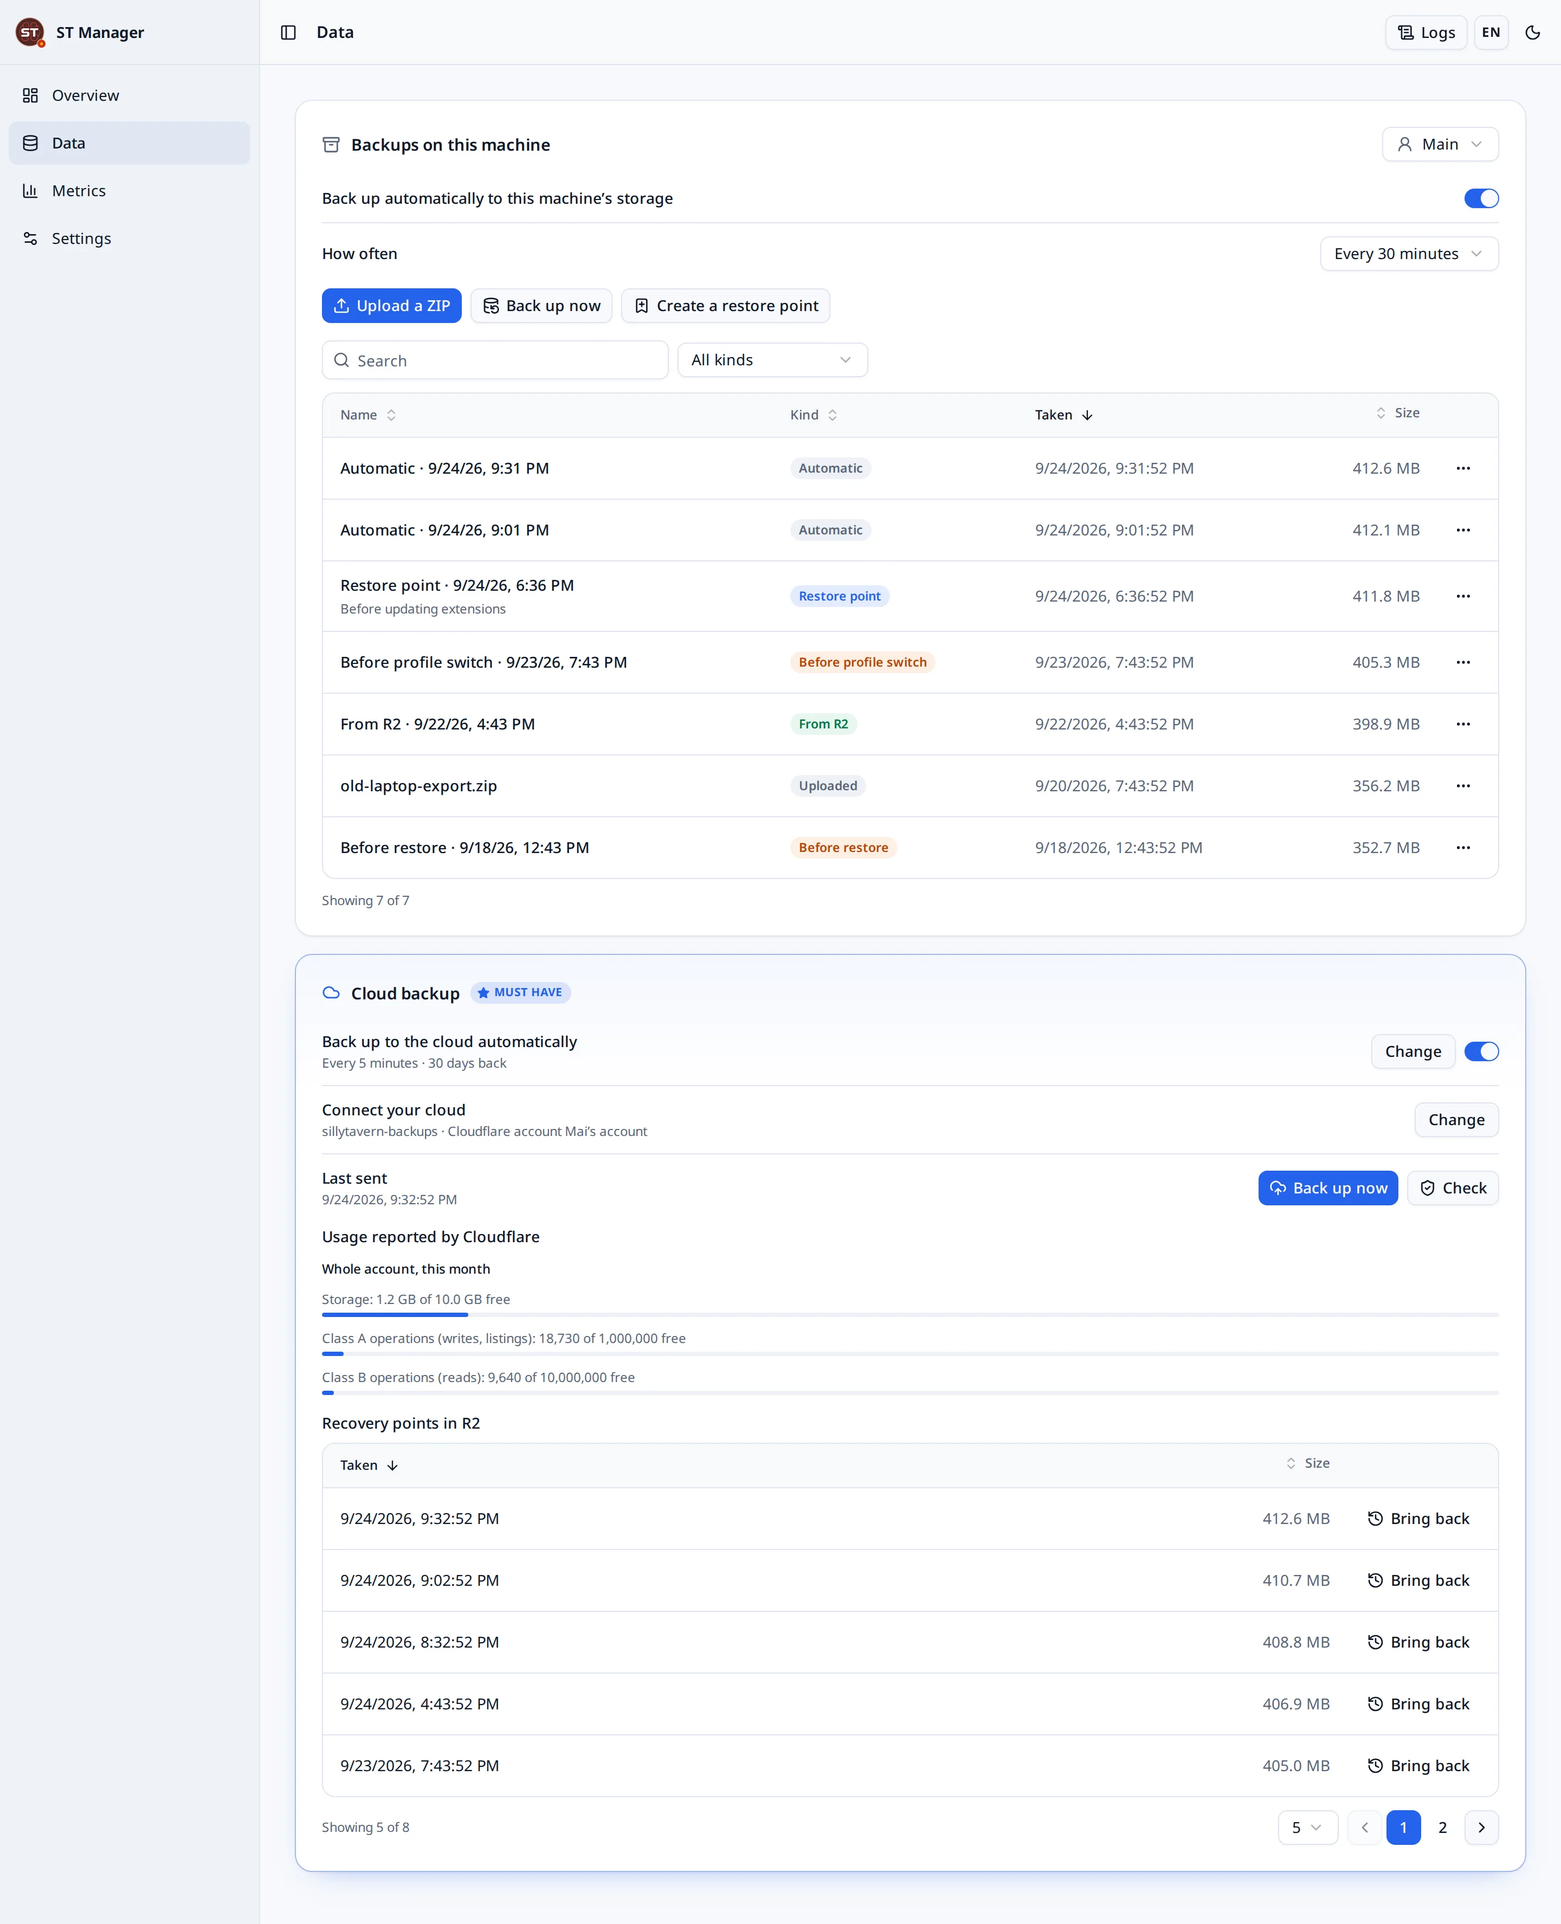
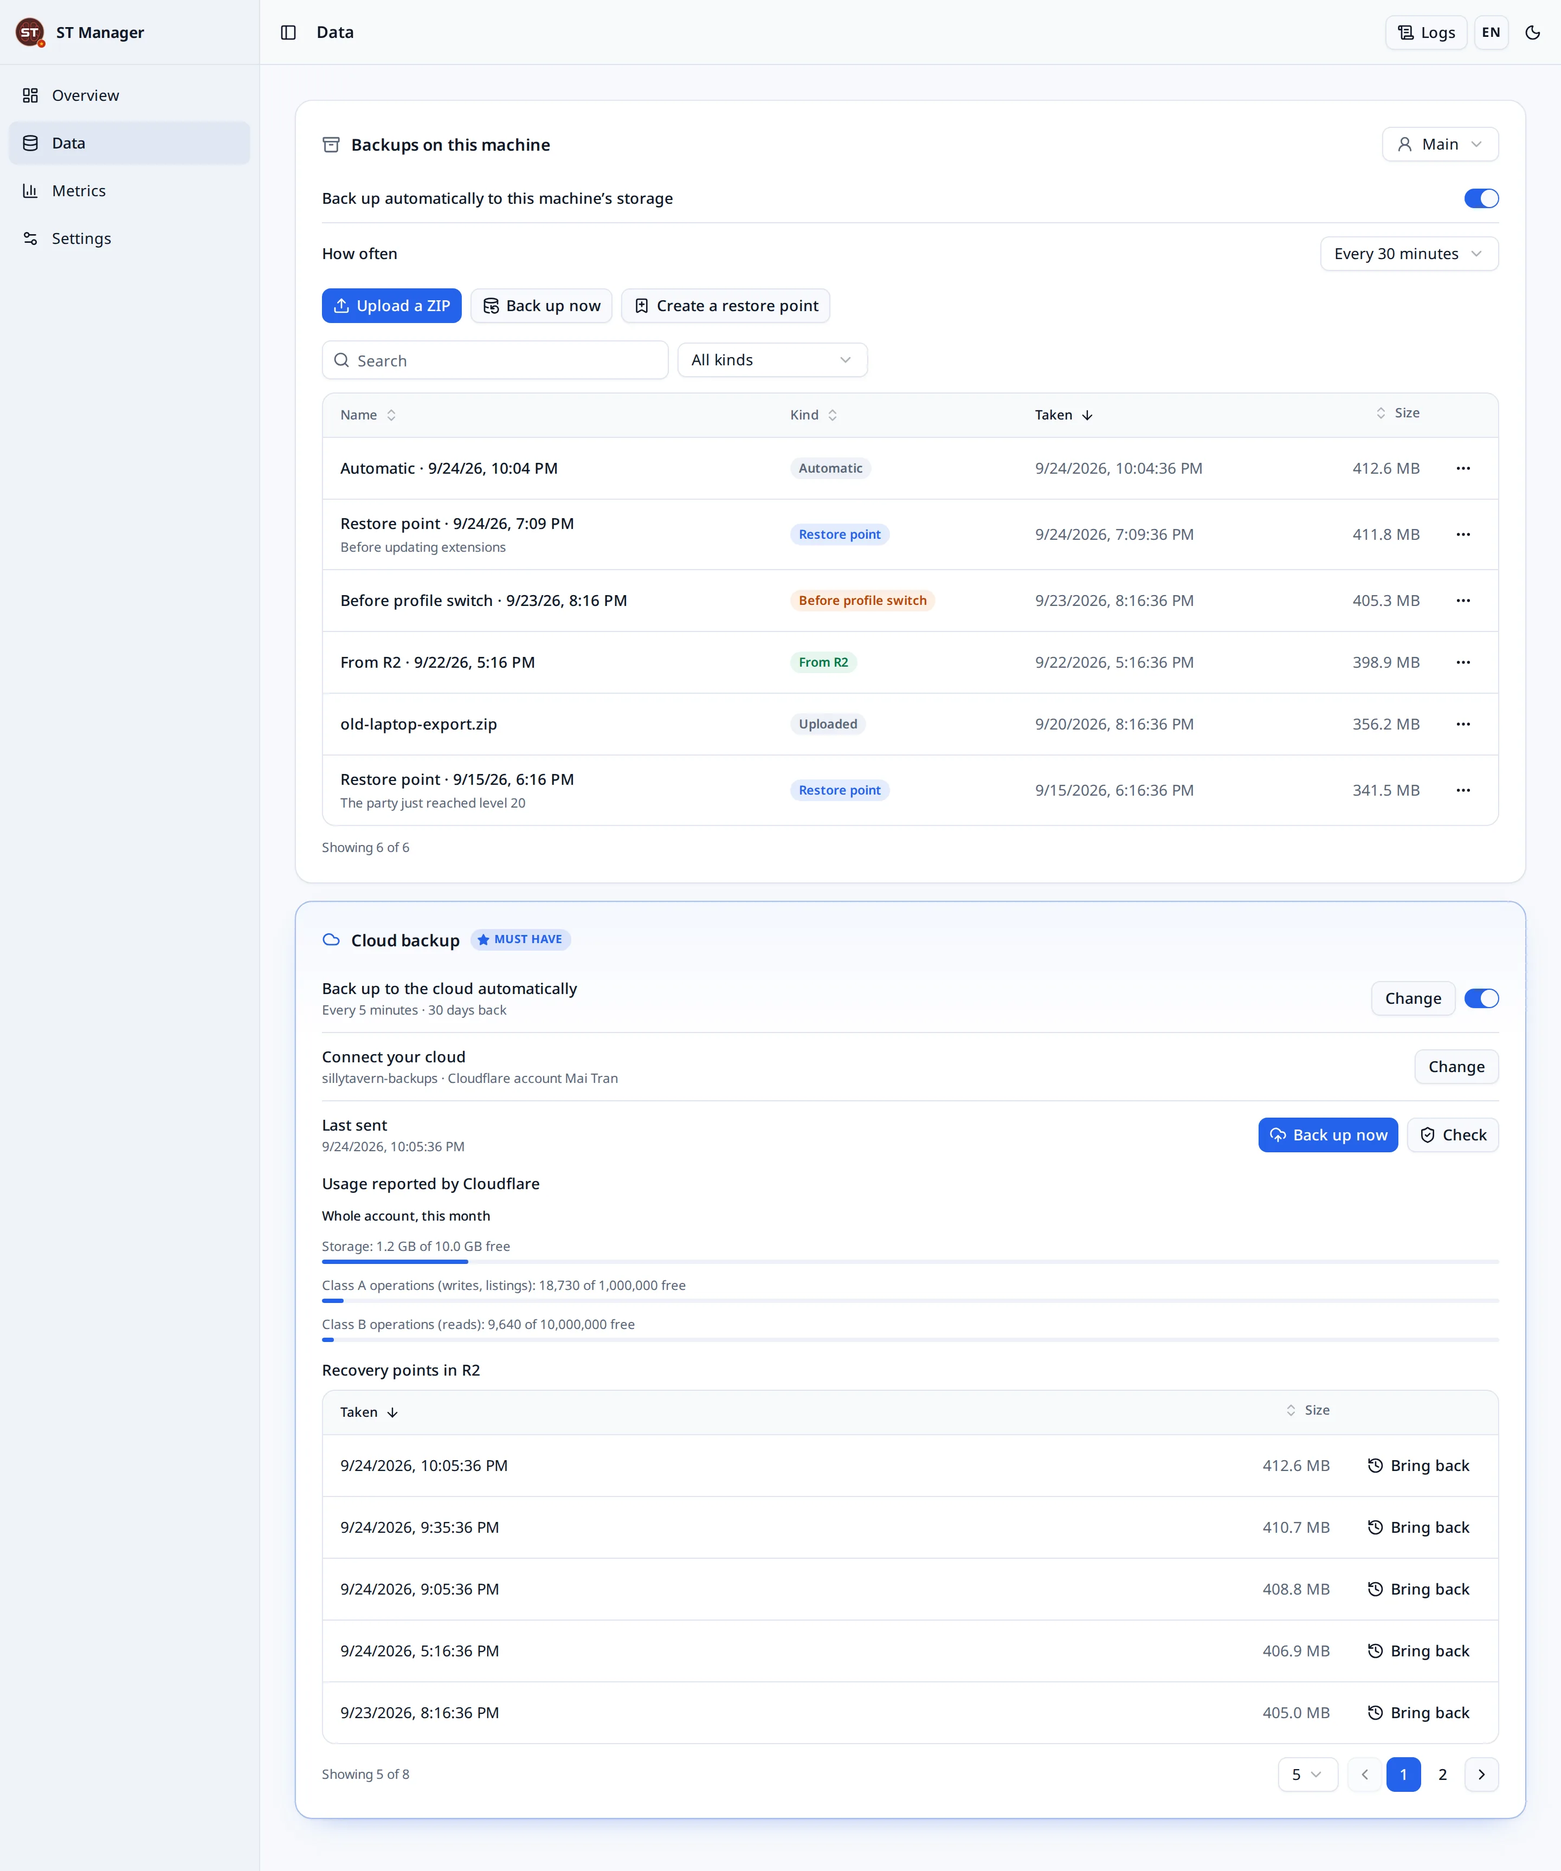
docs: saver mode, keeping the manager awake, and bringing a machine back
The README and the site's documentation said nothing about most of what
the manager learned in the last few weeks. Both now cover, in English and
Vietnamese:

- saver mode: what it keeps and where, when it turns itself on, how a
  restore is checked for room and written as it arrives, and STM_SAVER;
- Keep STM online: why a manager needs it, how often it checks and which
  address it holds;
- bringing a machine back: the settings the bucket keeps beside the data,
  what a sign-in on a new machine restores by itself, Restore everything,
  and one machine per account;
- restore points with a note, what each kind of archive is kept for, and
  the preview saying what a replace takes away;
- Use it here and Open with tools, Continue with Cloudflare, the setup
  checklist, and the choice between the fixed link and the tunnel's own;
- STM_PORT, STM_SAVER, STM_STORAGE_IN_MEMORY, STM_PUBLIC_ORIGIN and
  STM_TUNNEL_PROTOCOL in the configuration tables.

The site also gives the default SillyTavern port as 8002, which it has
been for a while, instead of 8000, and its home page has cards for the
three larger additions.

The data page screenshots are retaken with the backups the retention
rules actually leave: one automatic archive, one safety copy, and what
somebody made or brought on purpose.

Claude-Session: https://claude.ai/code/session_01NgPExXvPSjrbDeWTqPJPC2

diff --git a/README.md b/README.md
@@ -41,11 +41,15 @@ SillyTavern is a terminal, a Git checkout and a folder of data you must not lose
 | --- | --- |
 | **Install and update** | Pick a release or a branch and press **Install**. The manager clones it, installs dependencies, health-checks the build and reports **Ready** only once SillyTavern answers on its port. It tells you when a newer release is out. |
 | **Run and watch** | Start, stop and open SillyTavern from the panel, with live logs from the manager, SillyTavern, the installer, backups and the tunnel in one searchable feed. |
+| **Use it here** | Open SillyTavern inside the panel, with a window bar for backing up, reading the logs and going full screen — or in a tab of its own with the same tools. |
 | **Share safely** | SillyTavern itself stays on localhost. Other devices and Cloudflare Tunnel reach it through the manager's access gateway, which asks for a password first and never forwards the admin panel. |
 | **A link that keeps working** | Sign in to Cloudflare and the manager puts `sillytavern.<you>.workers.dev` and `stm.<you>.workers.dev` in front of the tunnels. A Quick Tunnel's own hostname changes every restart; these two never do. |
 | **Reach your own machine** | The console has its own link, behind the manager password, for administering the machine from somewhere else. It is a separate switch from the one you share. |
-| **Back up** | Scheduled and manual ZIP archives, compatible with SillyTavern's own exports, plus previewed restores and a safety snapshot before anything is replaced. |
+| **Back up** | Scheduled ZIP archives and restore points you name yourself, compatible with SillyTavern's own exports, plus previewed restores and a safety snapshot before anything is replaced. |
 | **Back up off-site** | One button signs in to Cloudflare, finds or creates an R2 bucket and keeps recovery points there. No keys to create or paste — or bring your own S3 keys. |
+| **Bring a machine back** | The bucket also keeps how the manager was set up. Sign in with the same Cloudflare account on a new machine and the data, the SillyTavern release and the settings come back. |
+| **Save space** | Saver mode, for machines with little room for files: no archives on the machine, the cloud holds the recovery points, and a restore is written as it arrives. |
+| **Stay awake** | **Keep STM online** stops a battery saver, or a host that shuts idle programs down, from putting the manager to sleep — and SillyTavern with it. |
 | **Know your usage** | Requests, tokens, cache hits and latency per day, per provider and per model, measured from SillyTavern's own traffic. |
 | **Keep data separate** | Named profiles for separate SillyTavern data sets, switched from the panel, each with its own backups. |
 | **Speak your language** | English and Vietnamese, light and dark, desktop and phone. |
@@ -237,12 +241,20 @@ Windows users should prefer the portable ZIP, because it already includes Node.j
 
 ### First setup
 
-1. Open the manager at port `7860` and create the manager administrator password.
+1. Open the manager at port `7860` and create the manager administrator password — or press **Continue with Cloudflare**, which sets the manager up and connects backups in one step, and lets that Cloudflare account open the manager again later.
 2. Choose a SillyTavern version — `latest` is selected by default.
 3. Press **Install** and wait for **Ready**. Ready means SillyTavern answered on port `8002`.
-4. Open the local link, or set the SillyTavern password and then turn on local-network access or a public tunnel.
+4. Open the local link, or set the SillyTavern PIN and then turn on local-network access or a public tunnel.
 
-The manager password and the SillyTavern password are two different things. The SillyTavern password is asked for by a sign-in page the manager serves, so it works the same on every SillyTavern version, old or new; changing it signs out every device that was already in.
+The manager password and the SillyTavern PIN are two different things. The PIN is asked for by a sign-in page the manager serves, so it works the same on every SillyTavern version, old or new; changing it signs out every device that was already in.
+
+Until everything is in place, a **Setup checklist** on the overview lists the six steps worth taking — install SillyTavern, connect Cloudflare, set the STM password and the SillyTavern PIN, turn on R2 backups and open SillyTavern's link — and ticks each one off as it happens. A step stays ticked once done, and the list folds itself away when all six are.
+
+### Using SillyTavern from the panel
+
+**Use it here**, on the preview in the overview, opens SillyTavern inside the manager's own page. It is signed in already — the manager password you gave is the stronger of the two, so the PIN is not asked for — and a bar above it can **minimize** it back to the console while it stays loaded, give it the **full screen**, **back up** on this machine or to the cloud, show the **logs**, reload it or move it to a tab. **Close** unloads it and gives its memory back.
+
+The arrow beside **Open SillyTavern** offers **Open with tools**: a new tab with the same window bar and a floating tools button. From another device, where a page cannot be put inside the console, the same buttons open SillyTavern in a tab at the best address instead.
 
 ## Screenshots
 
@@ -360,6 +372,8 @@ Sign in to Cloudflare (the same sign-in that sets up backups) and the manager pu
 
 The manager will not deploy over a Worker of those names that it did not create, so an account that already has one keeps it — the panel says so instead. Disconnecting Cloudflare removes both.
 
+With a sign-in each link therefore has two addresses: the **fixed link** through the Worker, and the **tunnel link** straight to cloudflared, which changes at every start. The card shows one and keeps the other behind a count beside it. **Show this link first** puts either one in front — on the card, behind **Open** and in the QR code — for somebody who finds the Worker slower or only ever opens the link on the machine in front of them; the fixed link can also be hidden altogether, and the Worker keeps following the tunnel so an address already shared goes on working. A new tunnel's address is handed out only once it answers, and while the Worker is being pointed at it the fixed link says it is on its way rather than offering one that would fail.
+
 A free Cloudflare account answers 100,000 Worker requests a day, resetting at midnight UTC, and those two addresses share that allowance with the Worker that carries your backups. Running it out would take all three down at once, so the manager watches the figure and gives things up in order before that can happen: first the console quietly asks for updates less often, then the console's own fixed address is held back, and last SillyTavern's. In each case the tunnel's own address is offered in its place, and everything is handed out again when the allowance resets. It is written in the log when it happens, and there is nothing to press.
 
 In ordinary personal use this never comes up — a console left open all day, SillyTavern in use and backups running costs around a tenth of the allowance. What can reach it is sharing your SillyTavern link widely: a page load costs roughly 320 requests, so the ceiling is about 300 of them a day. Note also that an address somebody already bookmarked keeps going through the Worker; holding one back protects the links handed out from that point on, not one already in somebody's browser.
@@ -375,11 +389,29 @@ Where your data lives:
 
 The directory holds profiles, backups, logs, metrics and the telemetry outbox. It is never inside the application folder, so updating the application never touches it.
 
+### Keeping it awake
+
+A program nobody has asked anything of for a while can be put to sleep — by a laptop's battery saver, a phone's power management, or a host that stops idle containers — and SillyTavern goes with it. **Settings → While the manager is open → Keep STM online**, on by default, has the manager reach its own address on a clock so it is never idle: every 15 minutes, or every 5, 10, 30 or 60 if the machine goes quiet sooner or later than that.
+
+The address it holds is the one you set in `STM_PUBLIC_ORIGIN`, otherwise the one your browser last reached the console at, otherwise this machine's own `127.0.0.1` — never the tunnel or the Worker, so it costs nothing from the Cloudflare allowance. The card says which address it is holding and when it last answered. The choice travels to the bucket with the rest of the manager's settings.
+
 ## Backup and restore
 
 Local backup is always available. The archive is a streaming ZIP compatible with SillyTavern exports. By default it excludes `secrets.json`, thumbnails, vectors, generated backups, `.git`, `node_modules` and operating-system metadata. Including secrets is an explicit action with a warning.
 
 Restore previews the archive before writing. Replace is the default mode; merge is available when needed. A safety snapshot is created before a replace or a profile switch.
+
+On the **Data** page, **Back up automatically** takes an archive every 30 minutes, hour, six hours or day when the data has changed, and keeps the newest one (`STM_LOCAL_BACKUPS` keeps more). **Create a restore point** takes one on purpose, with a note of your own — "before updating extensions" — and the manager never deletes a restore point, an upload or a recovery point brought back from R2 by itself. The safety copy taken before a restore or a profile switch is kept as the undo for the last such change. Every archive carries its kind, and the list can be searched and filtered by it. **Upload a ZIP** restores an export from elsewhere.
+
+Before a replace, the preview says what it takes away: the files in the profile that the archive does not have.
+
+### Saver mode
+
+For a machine with little room for files — a container that keeps everything in memory, a phone that is nearly full — archives on the machine are the thing that runs it out. A restore of a 2 GB profile used to hold it three times over: the uploaded ZIP, a safety copy of the profile it was replacing, and the files themselves.
+
+With **Saver mode** on, no archive is kept on the machine at all and the profile is on the disk once. Your Cloudflare R2 bucket holds the recovery points instead, and it stands in for the safety copy: before a restore replaces anything, the current data is sent to R2 first. An uploaded ZIP and a recovery point brought back from R2 are written straight into the profile as they arrive, with SillyTavern stopped. The manager checks that the restore fits before it starts, offers to leave out what SillyTavern can do without — extensions' git history and `node_modules`, SillyTavern's own backups, thumbnails — when room is short, and refuses one that still will not fit rather than failing halfway.
+
+It turns itself on when the data directory is kept in memory, or when the disk has less than 5 GiB free as the manager starts, and says which of the two it was. Otherwise it is a switch under **Settings → When the manager opens**, or `STM_SAVER=1` / `STM_SAVER=0` to settle it for good. Connect R2 before relying on it: with saver mode on and no bucket, nothing holds your data but the profile itself.
 
 ### Cloudflare R2
 
@@ -399,6 +431,14 @@ Only the Cloudflare refresh token is stored, in its own file readable by your us
 
 **S3 keys instead.** If you would rather not sign in, open **Where backups go**, choose **R2 or S3 keys** and enter the endpoint, bucket and key pair from the R2 page of the Cloudflare dashboard, or set them in `.env` (see [`.env.example`](.env.example)). Any S3-compatible storage works this way. Both ways of reaching a bucket are in that one form; saving is choosing which one carries the backups.
 
+### Bringing a machine back
+
+The bucket keeps more than your chats. Whenever they change, the manager writes its own settings beside the data: the manager password and the SillyTavern PIN (as the hashes it stores, never as text), the ports, the links and whether their Quick Tunnels were on, **Keep STM online**, the backup schedules and R2 limits, and the SillyTavern release that was actually running. The usage figures are kept there too.
+
+On a new machine — a new computer, a reinstall, a container that starts empty — sign in with the same Cloudflare account, on the first-run screen or on the **Data** page. A profile that is empty while the bucket is not gets the newest recovery point back before SillyTavern is started, and SillyTavern is installed at the release you were running. When the account holds the setup of one of your other machines, a card on every page offers **Restore everything**: the data, the SillyTavern release, the console password, the PIN, the ports, the links, the backup schedules and the usage figures, in one go. SillyTavern is stopped while it runs, and what was on this machine is kept under Backups first. Nothing is applied on its own: a machine that is already set up is offered these settings, with the name of the machine that wrote them and when, and restoring the password asks you to sign in again.
+
+One account backs up from one machine at a time, so two machines never sweep the same bucket. Signing in on a second machine makes it the one that backs up; the first stops, throws away its own sign-in, and says which machine took over. Signing in there again takes it back.
+
 ### Starting over
 
 **Settings → Start over** erases everything this manager keeps on the machine: SillyTavern itself, every profile with the chats and characters in it, every backup on this disk, the R2 connection, the tunnel, the PIN and the manager password. It asks twice - a short wait before the button comes alive, and the manager password typed again - because a console left signed in on a desk is not the same as somebody asking for this.
@@ -412,6 +452,13 @@ Everything can be set in the panel. These environment variables, read from the p
 | Variable | What it does |
 | --- | --- |
 | `STM_ADMIN_PASSWORD` | Creates the manager administrator password at first start, for Docker and hosted platforms |
+| `STM_HOST` | The address to bind: `127.0.0.1` (this machine only) or `0.0.0.0` (every network). Set a password before opening it |
+| `STM_PORT` · `STM_ACCESS_PORT` | Pin the console's port (`7860`) and the access gateway's (`8001`). Unset, a port something else holds is stepped over, and a host's `PORT` is used when it announces one |
+| `STM_SAVER` | `1` or `0` settles [saver mode](#saver-mode) for good; the switch in the panel then cannot change it |
+| `STM_STORAGE_IN_MEMORY` | `1` or `0` says whether files written here take the machine's memory. Detected on its own from the mount table (tmpfs, ramfs) and the Knative `K_SERVICE` variable |
+| `STM_PUBLIC_ORIGIN` | The address the console is reached at from outside, behind a proxy that rewrites `Host`; also the address **Keep STM online** holds |
+| `STM_TUNNEL_PROTOCOL` | `http2` to skip cloudflared's QUIC attempt on a network that does not let UDP out |
+| `STM_LOCAL_BACKUPS` | How many automatic archives to keep on the machine (one by default) |
 | `STM_R2_ENDPOINT` | R2 or S3 endpoint, `https://<account-id>.r2.cloudflarestorage.com` |
 | `STM_R2_BUCKET` | Bucket name |
 | `STM_R2_ACCESS_KEY_ID` | Access key ID |
